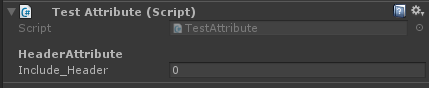
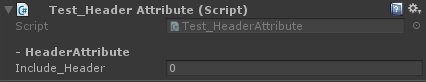
no message

diff --git a/Unity/Attribute/HeaderAttribute.md b/Unity/Attribute/HeaderAttribute.md
@@ -2,9 +2,9 @@ HeaderAttribute
 ===============
 
 ```C#
-public class TestAttribute : MonoBehaviour
+public class Test_HeaderAttribute : MonoBehaviour
 {
-    [Header("HeaderAttribute")]
+    [Header("- HeaderAttribute")]
     public int include_Header;
 }
 ```
